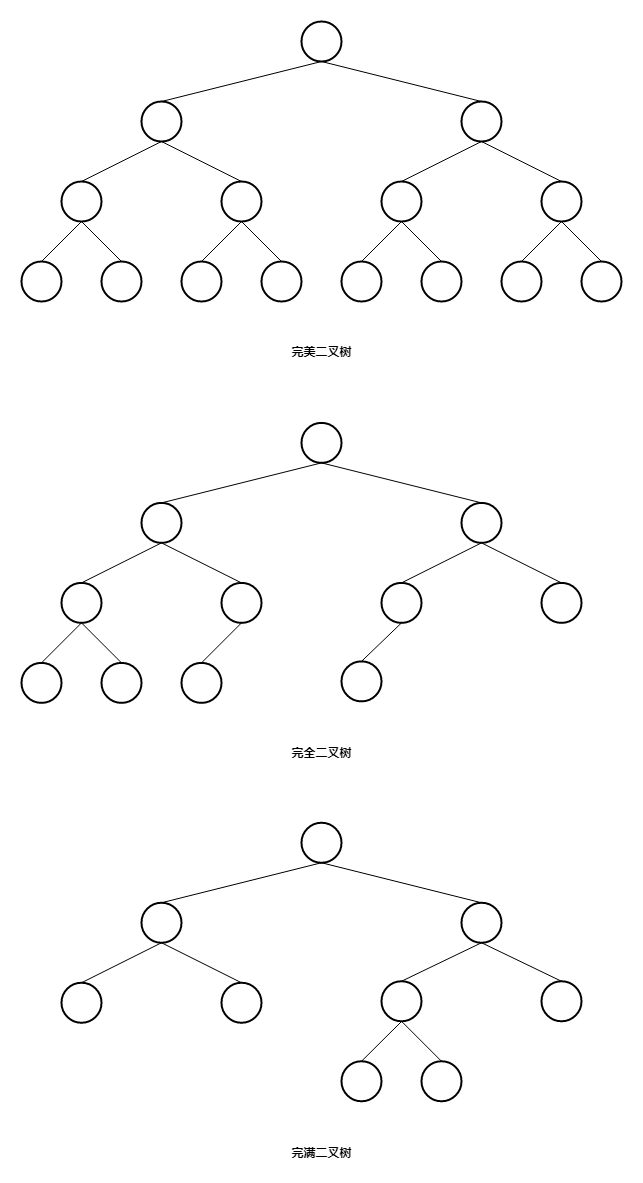
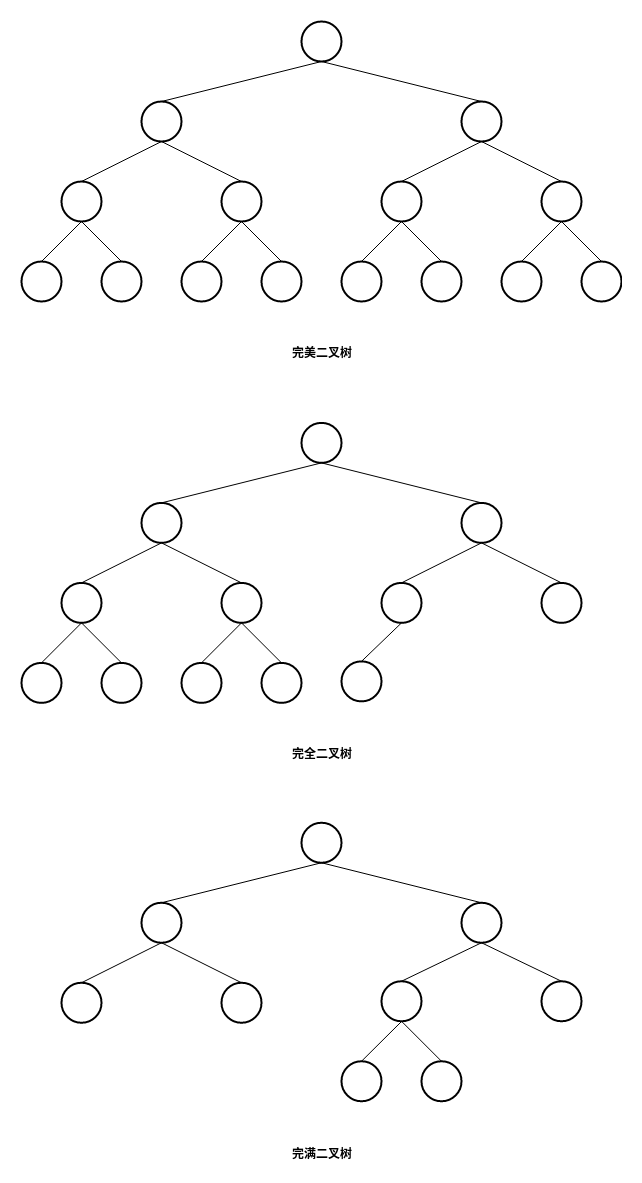
堆简介文档添加，二叉树类型图片优化。

diff --git a/数据结构与算法/数据结构/堆简介.md b/数据结构与算法/数据结构/堆简介.md
@@ -1,0 +1,15 @@
+### 概述
+
+堆是以数组形式存储特殊完全二叉树的存储结构。
+
+最大堆是指堆中存储的完全二叉树的每个节点都大于其子节点。
+
+对小堆是指堆中存储的完全二叉树的每个节点都小于其子节点。
+
+### 堆结构
+
+<img src="./数据结构与算法/数据结构/image/最大堆与最小堆结构.png" alt="最大堆与最小堆结构"/>
+
+### 堆作用
+
+堆可以用于优先队列和排序。

diff --git a/数据结构与算法/数据结构/_sidebar.md b/数据结构与算法/数据结构/_sidebar.md
@@ -8,6 +8,8 @@
 
 * [树简介](./数据结构与算法/数据结构/树简介.md)
 
+* [堆简介](./数据结构与算法/数据结构/堆简介.md)
+
 * [二叉查找树](./数据结构与算法/数据结构/二叉查找树.md)
 
 * [平衡二叉查找树](./数据结构与算法/数据结构/平衡二叉查找树.md)
